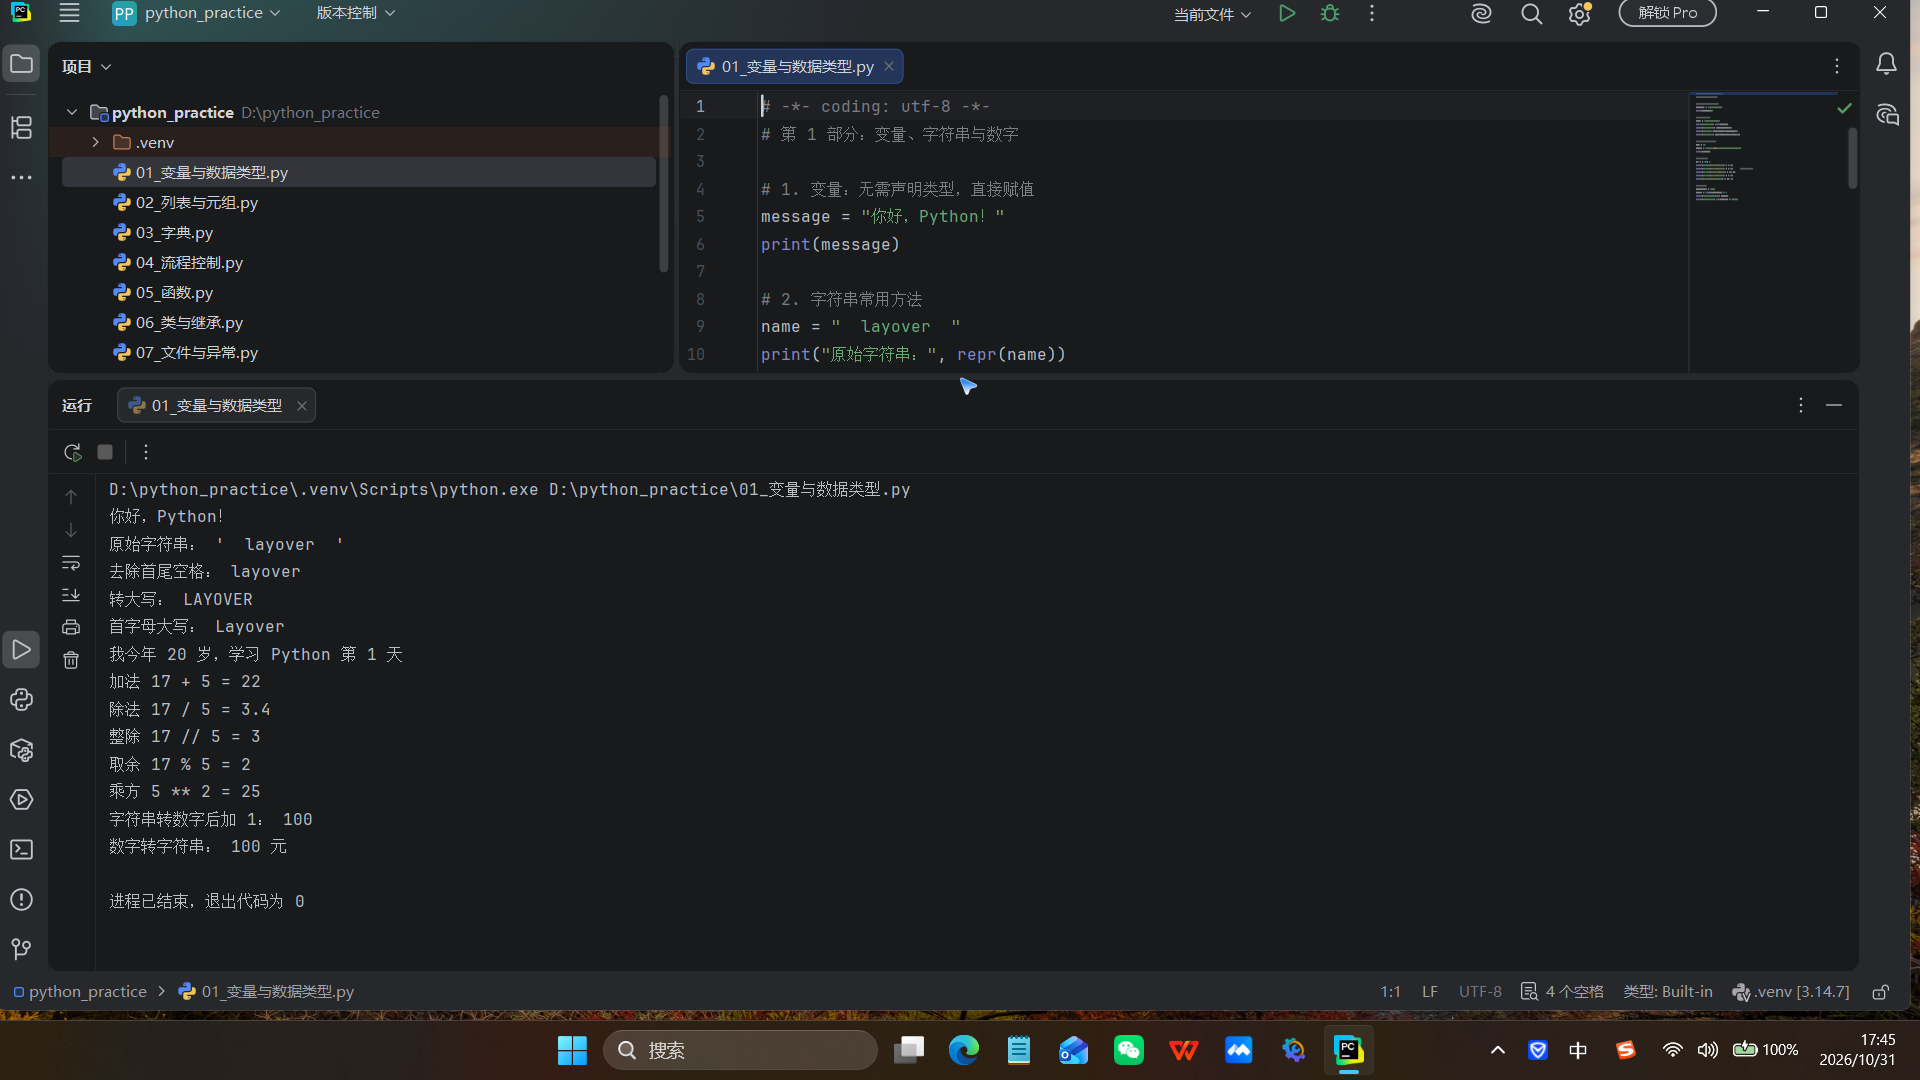
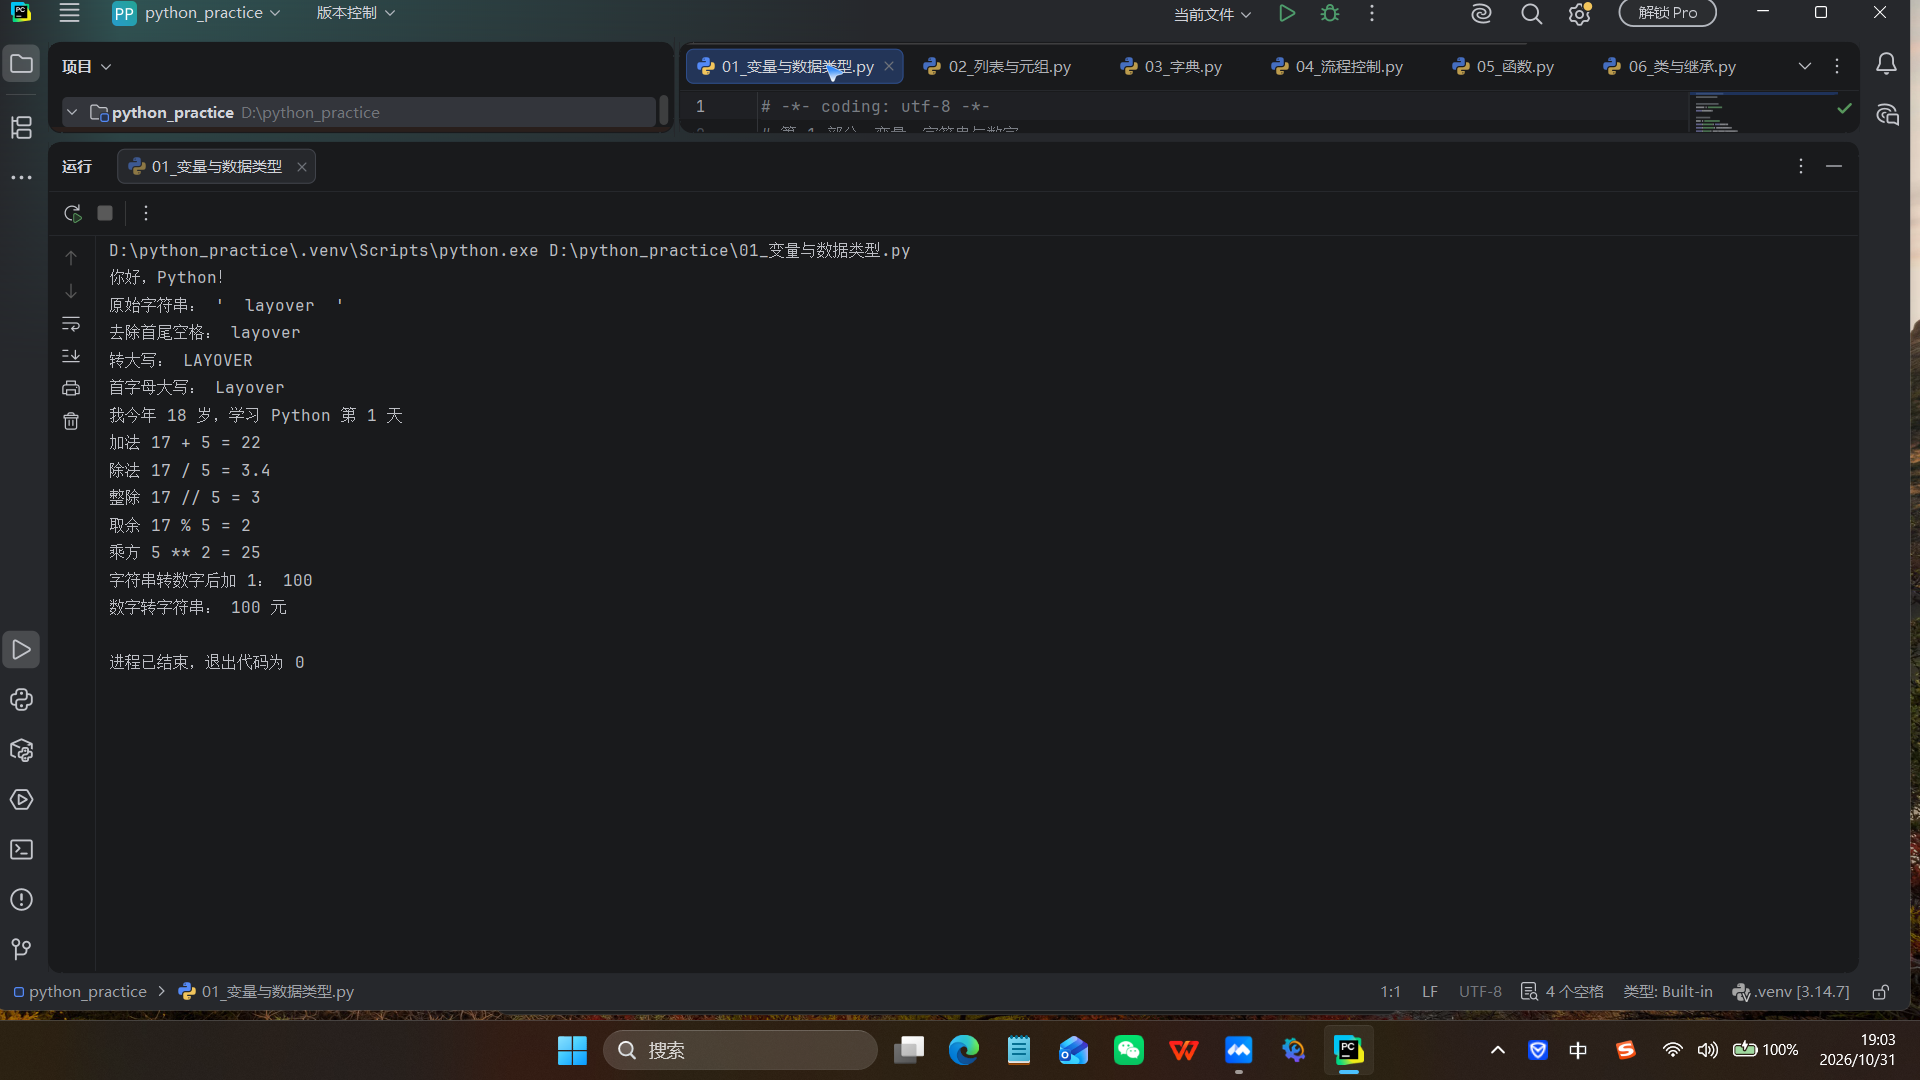
将第一个程序中的年龄更正为 18 并更新运行截图

diff --git a/content/zh/posts/python-learning.md b/content/zh/posts/python-learning.md
@@ -38,7 +38,7 @@ name = "  layover  "
 print("去除首尾空格：", name.strip())
 print("转大写：", name.strip().upper())
 
-age = 20
+age = 18
 intro = f"我今年 {age} 岁，学习 Python 第 1 天"
 print(intro)
 
